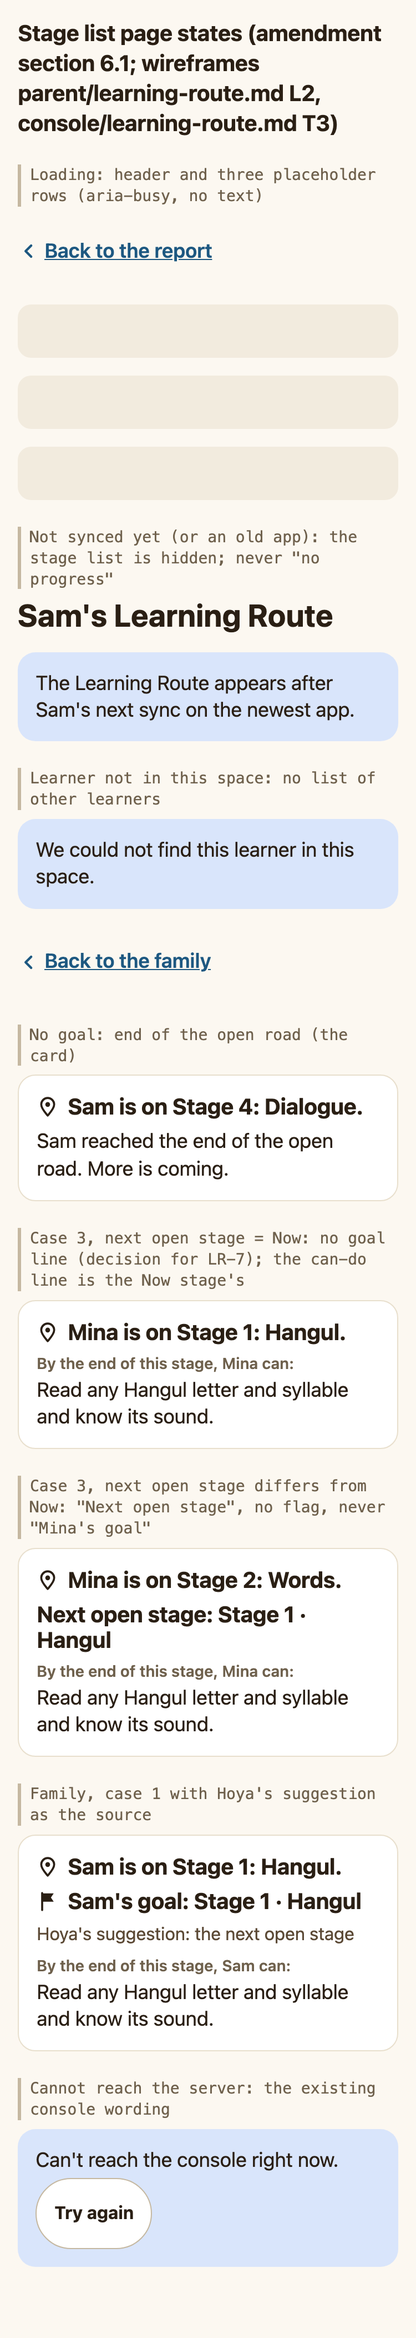
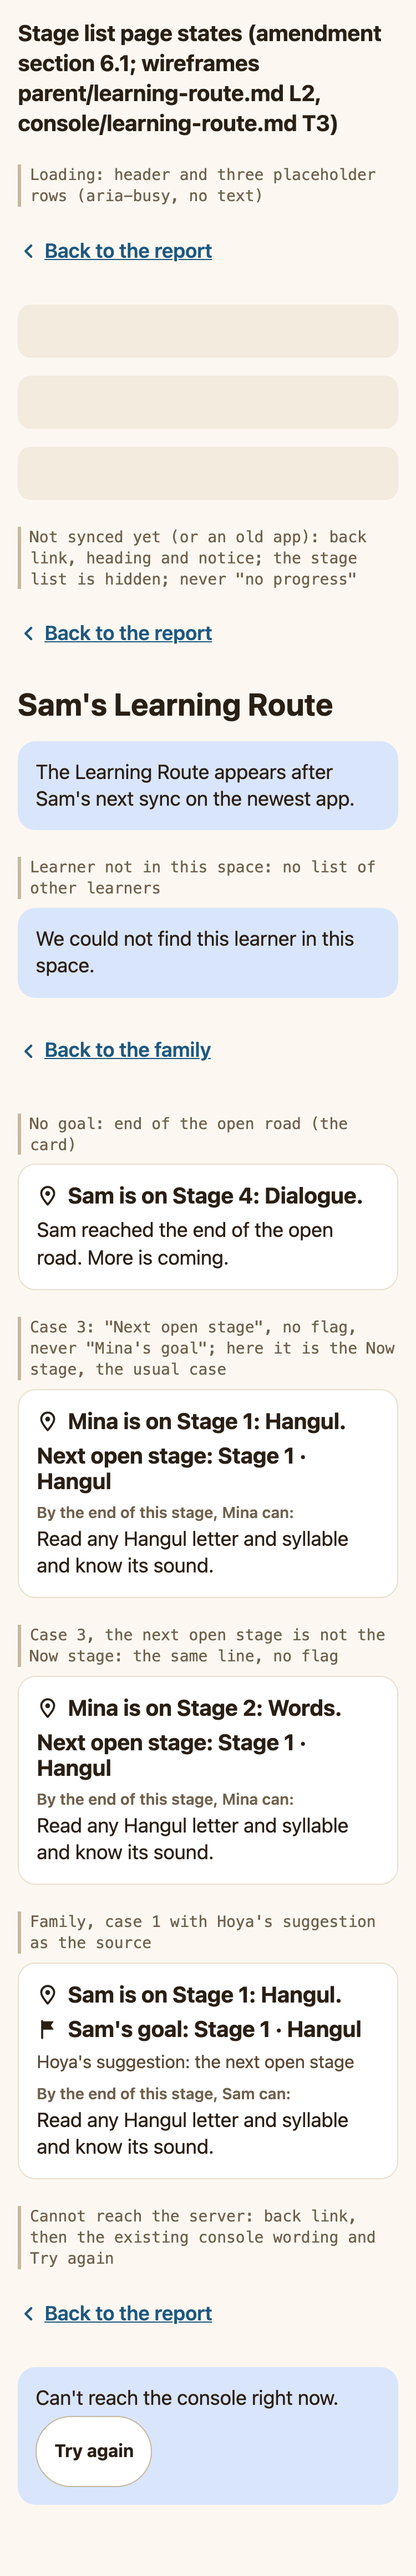
design(learning-route): case 3 keeps its "Next open stage" line, and every stage list state keeps the back link (LR-D)
Section 6.1 asks for the case 3 line in every view, so the report board and
the stage list card now draw "Next open stage: Stage {n} · {title}" also when
it names the Now stage (the usual case without a plan), with no flag. The
earlier proposal to hide it was a spec change, not a design choice.
The not-synced and cannot-reach states keep the back link, as loading and
not-found already did, so no state is a dead end.

diff --git a/design/screens/learning-route/mock/stage-list-states.html b/design/screens/learning-route/mock/stage-list-states.html
@@ -11,13 +11,13 @@
 <h1 class="board-title">Stage list page states (amendment section 6.1; wireframes parent/learning-route.md L2, console/learning-route.md T3)</h1>
 <div class="board-grid">
 <div class="board-item"><p class="board-label">Loading: header and three placeholder rows (aria-busy, no text)</p><div class="reading flush" aria-busy="true"><a class="back-link" href="#"><svg class="icon " width="20" height="20" viewBox="0 0 24 24" aria-hidden="true" focusable="false"><path d="M14.5 6 L8.5 12 L14.5 18" style="fill: none; stroke: var(--colors-brand-secondaryDark); stroke-width: 2.6; stroke-linecap: round; stroke-linejoin: round"/></svg>Back to the report</a><div class="skeleton"></div><div class="skeleton"></div><div class="skeleton"></div></div></div>
-<div class="board-item"><p class="board-label">Not synced yet (or an old app): the stage list is hidden; never "no progress"</p><div class="reading flush"><header class="page-head"><h1>Sam's Learning Route</h1></header><p class="notice">The Learning Route appears after Sam's next sync on the newest app.</p></div></div>
+<div class="board-item"><p class="board-label">Not synced yet (or an old app): back link, heading and notice; the stage list is hidden; never "no progress"</p><div class="reading flush"><a class="back-link" href="#"><svg class="icon " width="20" height="20" viewBox="0 0 24 24" aria-hidden="true" focusable="false"><path d="M14.5 6 L8.5 12 L14.5 18" style="fill: none; stroke: var(--colors-brand-secondaryDark); stroke-width: 2.6; stroke-linecap: round; stroke-linejoin: round"/></svg>Back to the report</a><header class="page-head"><h1>Sam's Learning Route</h1></header><p class="notice">The Learning Route appears after Sam's next sync on the newest app.</p></div></div>
 <div class="board-item"><p class="board-label">Learner not in this space: no list of other learners</p><div class="reading flush"><p class="notice">We could not find this learner in this space.</p><a class="back-link" href="#"><svg class="icon " width="20" height="20" viewBox="0 0 24 24" aria-hidden="true" focusable="false"><path d="M14.5 6 L8.5 12 L14.5 18" style="fill: none; stroke: var(--colors-brand-secondaryDark); stroke-width: 2.6; stroke-linecap: round; stroke-linejoin: round"/></svg>Back to the family</a></div></div>
 <div class="board-item"><p class="board-label">No goal: end of the open road (the card)</p><section class="panel grown-card"><p class="grown-line"><svg class="icon " width="20" height="20" viewBox="0 0 24 24" aria-hidden="true" focusable="false"><path d="M12 21.5 C9.5 18.5 5 14 5 9.5 A7 7 0 0 1 19 9.5 C19 14 14.5 18.5 12 21.5 Z" style="fill: none; stroke: var(--colors-text-primary); stroke-width: 2.2; stroke-linecap: round; stroke-linejoin: round"/><path d="M9.4 9.5 A2.6 2.6 0 1 0 14.6 9.5 A2.6 2.6 0 1 0 9.4 9.5 Z" style="fill: var(--colors-text-primary)"/></svg><strong>Sam is on Stage 4: Dialogue.</strong></p><p>Sam reached the end of the open road. More is coming.</p></section></div>
-<div class="board-item"><p class="board-label">Case 3, next open stage = Now: no goal line (decision for LR-7); the can-do line is the Now stage's</p><section class="panel grown-card"><p class="grown-line"><svg class="icon " width="20" height="20" viewBox="0 0 24 24" aria-hidden="true" focusable="false"><path d="M12 21.5 C9.5 18.5 5 14 5 9.5 A7 7 0 0 1 19 9.5 C19 14 14.5 18.5 12 21.5 Z" style="fill: none; stroke: var(--colors-text-primary); stroke-width: 2.2; stroke-linecap: round; stroke-linejoin: round"/><path d="M9.4 9.5 A2.6 2.6 0 1 0 14.6 9.5 A2.6 2.6 0 1 0 9.4 9.5 Z" style="fill: var(--colors-text-primary)"/></svg><strong>Mina is on Stage 1: Hangul.</strong></p><div class="can-do"><p class="can-do-lead">By the end of this stage, Mina can:</p><p>Read any Hangul letter and syllable and know its sound.</p></div></section></div>
-<div class="board-item"><p class="board-label">Case 3, next open stage differs from Now: "Next open stage", no flag, never "Mina's goal"</p><section class="panel grown-card"><p class="grown-line"><svg class="icon " width="20" height="20" viewBox="0 0 24 24" aria-hidden="true" focusable="false"><path d="M12 21.5 C9.5 18.5 5 14 5 9.5 A7 7 0 0 1 19 9.5 C19 14 14.5 18.5 12 21.5 Z" style="fill: none; stroke: var(--colors-text-primary); stroke-width: 2.2; stroke-linecap: round; stroke-linejoin: round"/><path d="M9.4 9.5 A2.6 2.6 0 1 0 14.6 9.5 A2.6 2.6 0 1 0 9.4 9.5 Z" style="fill: var(--colors-text-primary)"/></svg><strong>Mina is on Stage 2: Words.</strong></p><p class="grown-line"><strong>Next open stage: Stage 1 · Hangul</strong></p><div class="can-do"><p class="can-do-lead">By the end of this stage, Mina can:</p><p>Read any Hangul letter and syllable and know its sound.</p></div></section></div>
+<div class="board-item"><p class="board-label">Case 3: "Next open stage", no flag, never "Mina's goal"; here it is the Now stage, the usual case</p><section class="panel grown-card"><p class="grown-line"><svg class="icon " width="20" height="20" viewBox="0 0 24 24" aria-hidden="true" focusable="false"><path d="M12 21.5 C9.5 18.5 5 14 5 9.5 A7 7 0 0 1 19 9.5 C19 14 14.5 18.5 12 21.5 Z" style="fill: none; stroke: var(--colors-text-primary); stroke-width: 2.2; stroke-linecap: round; stroke-linejoin: round"/><path d="M9.4 9.5 A2.6 2.6 0 1 0 14.6 9.5 A2.6 2.6 0 1 0 9.4 9.5 Z" style="fill: var(--colors-text-primary)"/></svg><strong>Mina is on Stage 1: Hangul.</strong></p><p class="grown-line"><strong>Next open stage: Stage 1 · Hangul</strong></p><div class="can-do"><p class="can-do-lead">By the end of this stage, Mina can:</p><p>Read any Hangul letter and syllable and know its sound.</p></div></section></div>
+<div class="board-item"><p class="board-label">Case 3, the next open stage is not the Now stage: the same line, no flag</p><section class="panel grown-card"><p class="grown-line"><svg class="icon " width="20" height="20" viewBox="0 0 24 24" aria-hidden="true" focusable="false"><path d="M12 21.5 C9.5 18.5 5 14 5 9.5 A7 7 0 0 1 19 9.5 C19 14 14.5 18.5 12 21.5 Z" style="fill: none; stroke: var(--colors-text-primary); stroke-width: 2.2; stroke-linecap: round; stroke-linejoin: round"/><path d="M9.4 9.5 A2.6 2.6 0 1 0 14.6 9.5 A2.6 2.6 0 1 0 9.4 9.5 Z" style="fill: var(--colors-text-primary)"/></svg><strong>Mina is on Stage 2: Words.</strong></p><p class="grown-line"><strong>Next open stage: Stage 1 · Hangul</strong></p><div class="can-do"><p class="can-do-lead">By the end of this stage, Mina can:</p><p>Read any Hangul letter and syllable and know its sound.</p></div></section></div>
 <div class="board-item"><p class="board-label">Family, case 1 with Hoya's suggestion as the source</p><section class="panel grown-card"><p class="grown-line"><svg class="icon " width="20" height="20" viewBox="0 0 24 24" aria-hidden="true" focusable="false"><path d="M12 21.5 C9.5 18.5 5 14 5 9.5 A7 7 0 0 1 19 9.5 C19 14 14.5 18.5 12 21.5 Z" style="fill: none; stroke: var(--colors-text-primary); stroke-width: 2.2; stroke-linecap: round; stroke-linejoin: round"/><path d="M9.4 9.5 A2.6 2.6 0 1 0 14.6 9.5 A2.6 2.6 0 1 0 9.4 9.5 Z" style="fill: var(--colors-text-primary)"/></svg><strong>Sam is on Stage 1: Hangul.</strong></p><p class="grown-line"><svg class="icon " width="20" height="20" viewBox="0 0 24 24" aria-hidden="true" focusable="false"><path d="M6 21.5 V3" style="fill: none; stroke: var(--colors-text-primary); stroke-width: 2.2; stroke-linecap: round; stroke-linejoin: round"/><path d="M6 3.5 H18.5 L15.5 8 L18.5 12.5 H6 Z" style="fill: var(--colors-text-primary)"/></svg><strong>Sam's goal: Stage 1 · Hangul</strong></p><p class="source-line">Hoya's suggestion: the next open stage</p><div class="can-do"><p class="can-do-lead">By the end of this stage, Sam can:</p><p>Read any Hangul letter and syllable and know its sound.</p></div></section></div>
-<div class="board-item"><p class="board-label">Cannot reach the server: the existing console wording</p><div class="notice stack"><p>Can't reach the console right now.</p><a class="link-button" href="#">Try again</a></div></div>
+<div class="board-item"><p class="board-label">Cannot reach the server: back link, then the existing console wording and Try again</p><div class="reading flush"><a class="back-link" href="#"><svg class="icon " width="20" height="20" viewBox="0 0 24 24" aria-hidden="true" focusable="false"><path d="M14.5 6 L8.5 12 L14.5 18" style="fill: none; stroke: var(--colors-brand-secondaryDark); stroke-width: 2.6; stroke-linecap: round; stroke-linejoin: round"/></svg>Back to the report</a><div class="notice stack"><p>Can't reach the console right now.</p><a class="link-button" href="#">Try again</a></div></div></div>
 </div>
 </main>
 </body>

diff --git a/design/screens/learning-route/mock/report.html b/design/screens/learning-route/mock/report.html
@@ -40,17 +40,17 @@
   </section>
   <p class="muted">Last practice: Monday</p>
 </div></div>
-<div class="board-item"><p class="board-label">Case 3 (no goal source the page can read), next open stage = Now: no goal line, it would repeat Now (decision for LR-7)</p><div class="panel glance">
+<div class="board-item"><p class="board-label">Case 3 (no goal source the page can read): "Next open stage", no flag; here it is the Now stage, the usual case</p><div class="panel glance">
   <h1>Mina: report</h1>
   <section class="glance" aria-label="Learning Route">
   <p>Now on Stage 1: Hangul</p>
-  
+  <p class="goal-line"><span>Next open stage: Stage 1 · Hangul</span></p>
   
   <a class="link-button" href="#">Open Learning Route</a>
   </section>
   <p class="muted">Last practice: Monday</p>
 </div></div>
-<div class="board-item"><p class="board-label">Case 3, next open stage differs from Now (a level check started Mina in Stage 2; Stage 1 is still open)</p><div class="panel glance">
+<div class="board-item"><p class="board-label">Case 3, the next open stage is not the Now stage (a level check started Mina in Stage 2; Stage 1 is still open)</p><div class="panel glance">
   <h1>Mina: report</h1>
   <section class="glance" aria-label="Learning Route">
   <p>Now on Stage 2: Words</p>

diff --git a/design/screens/learning-route/stage-list.md b/design/screens/learning-route/stage-list.md
@@ -33,7 +33,7 @@ The report line and the stage list card always show the same case. LR-7 computes
 | 1 | Family viewer, `summary.routeGoal` present (the goal the learner's device shows) | "Sam's goal: Stage 2 · Words" (`learnerGoal`) | flag |
 | 1, reached | as 1, and the goal stage is complete or known | "Sam reached the goal: Stage 1 · Hangul." (`reached`) | flag |
 | 2 | No `routeGoal`, and this space has a live curriculum plan that targets the learner (the newest `publishedAt` wins) | "Your family's weekly plan reaches Stage 1 · Hangul" or "Your class's weekly plan reaches Stage 1 · Hangul" (`planReaches.*`) | flag |
-| 3 | Neither | "Next open stage: Stage {n} · {title}" (`nextOpen`), **only when that stage is not the Now stage** (decision below) | none |
+| 3 | Neither | "Next open stage: Stage {n} · {title}" (`nextOpen`), also when that stage is the Now stage (below) | none |
 | No goal | `pickGoal` returns null: every stage is complete, known, explored or later | "Sam reached the end of the open road. More is coming." (`endOfRoad`) | none |
 
 - **Flag.** Only lines that name a goal or a plan's destination carry the flag (cases 1 and 2). Case 3 and the end of the road name no goal, so they have no flag.
@@ -41,22 +41,12 @@ The report line and the stage list card always show the same case. LR-7 computes
 - **Teachers** never get case 1, because a class never receives `routeGoal` (section 9).
 - **Older app on a second device.** Its sync removes `routeGoal`, so the view falls to case 2 or 3. There is no error text and no "unknown" (section 9, mixed builds).
 
-### Decision for LR-7: case 3 shows no line when its stage is the Now stage
+### Case 3 when the next open stage is the Now stage
 
-- **The problem.** The two stages come from different rules:
-  - case 3 is `pickGoal` over `summary.journey.stages` with no sources, which gives the first stage whose state is `open`;
-  - the Now stage is `summary.journey.here`, the stage of the catalogue cursor.
-
-  These are almost always the same stage, and a class with no plan for a student gets case 3 every time. A teacher would read "Now on Stage 1: Hangul" and then "Next open stage: Stage 1 · Hangul". The stage is said twice, and "next" suggests a different stage.
-- **The decision.** In case 3, when the next open stage equals `journey.here`, there is no goal line.
-  - The report shows only "Now on Stage {n}: {stage}".
-  - The card shows the Now line and the Now stage's can-do line.
-- **When they differ.** For example, a level check started Mina in Stage 2 while Stage 1 is still open. The line then shows "Next open stage: Stage 1 · Hangul", with no flag. The board draws both forms.
-- **Cost.**
-  - One comparison in `learning-route-view.ts`.
-  - One test row: "case 3 equal to `here` yields no goal line".
-  - No new key and no new data.
-- **Spec.** It keeps the section 6.1 rule that cases 2 and 3 never claim the learner's goal. Section 6.1 does not cover the equal case; LR-7 writes this rule into its tests and into the spec's case 3 text.
+- **Two rules, usually one stage.** Case 3 is `pickGoal` over `summary.journey.stages` with no sources: the first stage whose state is `open`. The Now stage is `summary.journey.here`, the stage of the catalogue cursor. For a learner with no plan these are usually the same stage, so a teacher reads "Now on Stage 1: Hangul" and then "Next open stage: Stage 1 · Hangul".
+- **The line stays.** Section 6.1 asks for it in every case-3 view, and the report needs it to say where the learner is heading. It is true: Stage 1 is still the stage to finish. It names no goal and no person, so it keeps the grown-up honesty rule (section 7.3).
+- **When they differ.** For example, a level check started Mina in Stage 2 while Stage 1 is still open: "Now on Stage 2: Words", then "Next open stage: Stage 1 · Hangul". The board draws both.
+- **Not a design choice.** Hiding the line when it names the Now stage would change section 6.1. If the owner wants that, it is a spec change with its own test in LR-7, not something LR-7 or LR-8 decide alone.
 
 ## The goal line in the per-learner report
 
@@ -108,7 +98,7 @@ There is one reading column (`layout.maxWidth.reading`, centred). The gutter is 
 
 - **Type.** Now and Goal are `bodyLg`, bold, with 20 dp glyphs. The source and plan end lines are `bodySm` in `text.secondary`. The can-do lead is caption, semibold and muted.
 - **Plan end** shows for a family or self source (case 1) and in case 2, never for a class source in case 1 (section 6.1).
-- **Case 3** follows the decision above: either the Now line with the Now stage's can-do line, or "Next open stage: Stage {n} · {title}" with no flag and that stage's can-do line.
+- **Case 3**: the Now line, then "Next open stage: Stage {n} · {title}" with no flag, then that stage's can-do line. This is the same when the next open stage is the Now stage.
 - **No goal**: the Now line, then "{name} reached the end of the open road. More is coming."
 
 The states board draws case 3 (both forms), case 1 with "Hoya's suggestion: the next open stage" as the source, and the end of the road.
@@ -126,7 +116,7 @@ Each row is an `li`: a paper panel, `radii.md`, `border.subtle`, padding `spacin
 - **Name and state word**: "1. Hangul · Open", with the name bold and the word in `text.secondary`. A taste stage reads "A taste"; known reads "Known from the level check".
 - **The can-do line** (`learner.myRoute.stage.canDo.<n>`, read from the dictionary).
 - **The count line**, with every zero part left out: "4 known from the level check, 2 quests done", "8 known from the level check", "1 quest done". There is no line when both are 0, and never "0" or "of N".
-- **Tags** (the same chips as the learner page): "{name} is here", "{name} started here" (pin), and "{name}'s goal" (flag, case 1) or "Plan goal" (flag, case 2).
+- **Tags** (the same chips and order as the learner page): "{name} is here", then "{name}'s goal" (flag, case 1) or "Plan goal" (flag, case 2), then "{name} started here" (pin).
 - **The reserved slot** "Preview lessons" (dashed, `touchTarget.min`): F-BROWSE-001 renders it. Until then it renders **nothing**. The mock draws it only to show where it goes.
 
 **Later stages.** Their rows are quiet: a dashed border, no fill, only the name and "Coming later". Consecutive later stages merge into one row ("Stages 5 to 7 · Coming later").
@@ -146,9 +136,9 @@ Each row is an `li`: a paper panel, `radii.md`, `border.subtle`, padding `spacin
 ### States (board)
 
 - **Loading**: the back link and three `surface.sunken` placeholder rows (`aria-busy`, no text).
-- **Not synced yet** (or an older app): the heading, then the notice "The Learning Route appears after Sam's next sync on the newest app." The stage list is hidden. It is never worded "no progress".
+- **Not synced yet** (or an older app): the back link, the heading, then the notice "The Learning Route appears after Sam's next sync on the newest app." The stage list is hidden. It is never worded "no progress". Every state keeps the back link, so no state is a dead end.
 - **Learner not in this space**: "We could not find this learner in this space." and "Back to the family" (or "Back to the class"). There is no list of other learners.
-- **Cannot reach the server**: the existing console wording, "Can't reach the console right now.", and Try again.
+- **Cannot reach the server**: the back link, then the existing console wording, "Can't reach the console right now.", and Try again.
 
 ## Accessibility
 
